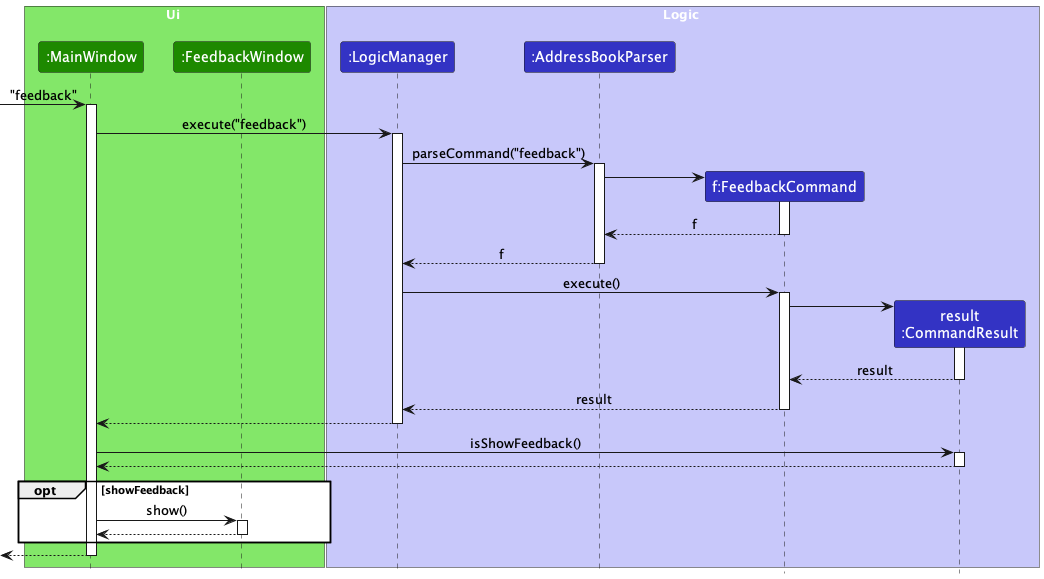
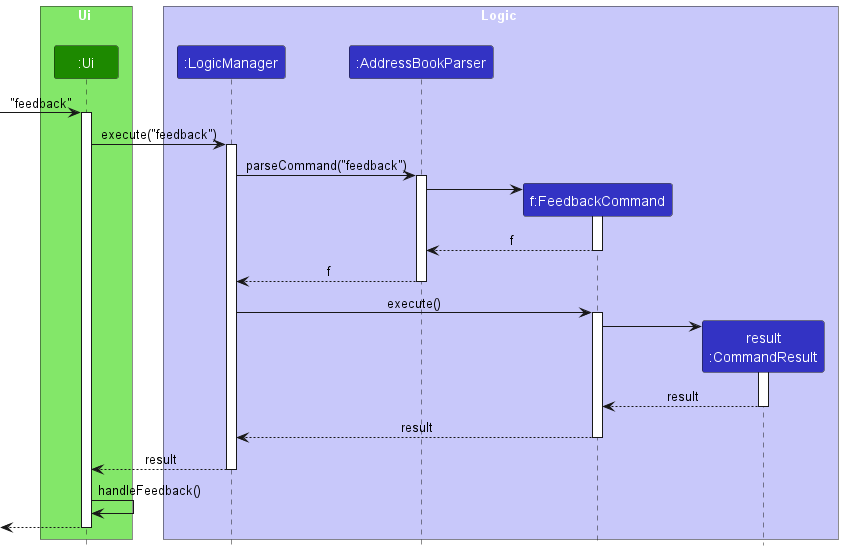
Update DG on the implementation of telehandle and various diagrams

diff --git a/docs/DeveloperGuide.md b/docs/DeveloperGuide.md
@@ -582,24 +582,18 @@ Step 2. The `LogicManager` receives this command string and passes it to the `Ad
 
 Step 3. The `AddressBookParser` identifies the type of command and invokes the relevant parser, in this case, `AddCommandParser`, to process the command details.
 
-Step 4. The parser `AddCommandParser` will then parse the command and create objects for each field. Each field will go through their own respective parse method in `ParserUtil`. The telehandle will be indicated by the `th/` prefix.
+Step 4. The parser `AddCommandParser` will then parse the command and create objects for each field. `Telehandle` will be indicated by the `th/` prefix.
 For this scenario, we will be focusing on the `Telehandle`.
 
 Step 5. The `AddCommandParser` processes the input and if a `Telehandle` is provided, the `ParserUtil#parseTelehandle()` method will then be invoked within `AddCommandParser`, else an empty `Telehandle` would be created instead.
 
-Step 6. If the `ParserUtil#parseTelehandle()` is called, then `Telehandle#isValidTelehandle()` method is called to check on the validity of the `Telehandle` according to the input contraints.
+Step 6. Using all the parsed fields (`Name, Phone, Email, Address, Telehandle, Tag, Courses`), a `Person` object is constructed.
 
-Step 7. If the `Telehandle` is valid, a new `Telehandle` is constructed and then returned to `ParserUtil`.
+Step 7. This results in a `AddCommand` object which is executed by the `LogicManager`.
 
-Step 8. The `Telehandle` is returned from `ParserUtil` to `AddCommandParser`.
+Step 8. The command will communicate with the `Model` to add a person with the inputted `Telehandle`.
 
-Step 9. Using all the parsed fields (`Name, Phone, Email, Address, Telehandle, Tag, Courses`), a `Person` object is constructed.
-
-Step 10. This results in a `AddCommand` object which is executed by the `LogicManager`.
-
-Step 11. The command will communicate with the `Model` to add a person with the inputted course.
-
-Step 12. Upon success, the result of the command execution is encapsulated as a CommandResult object which is returned back from `Logic`.
+Step 9. Upon success, the result of the command execution is encapsulated as a CommandResult object which is returned back from `Logic`.
 
 
 The following sequence diagram shows how the `Telehandle` works through the `AddCommand`:
@@ -611,9 +605,10 @@ The following sequence diagram shows how the `Telehandle` works through the `Add
 :information_source:**Note:**
 * The lifeline for `AddCommandParser` should end at the destroy marker (X) but due to a limitation of PlantUML, the lifeline reaches the end of diagram.
 * During the `AddCommandParser`, `Name, Phone, Email, Address, Tag, Course` objects are created as well but due to space constraint and simplification, the details have been omitted
+* There are other classes in `Logic` (omitted from the class diagram above) that are used for parsing a user command and can be found [here](#33-logic-component)
 </div>
 
-The following object diagram below shows the new `Person` object created when the user executes the `Add` command with a valid `Telehandle` as shown in step 1.
+The following object diagram below shows the new `Person` object created when the user executes the `Add` command with a valid `Telehandle`.
 
 ![TelehandleObjectDiagram](images/TelehandleObjectDiagram.png) 
 
@@ -638,18 +633,22 @@ The Feedback mechanism is facilitated by `FeedbackCommand`.
 
 Given below is an example usage scenario and how the Feedback mechanism works at each step.
 
-Step 1. The user wishes to send a feedback in regard to the app. They execute the `feedback` command: feedback
+Step 1. The user wishes to send a feedback in regard to the app. They execute the `feedback` command.
 
 Step 2. The `LogicManager` receives this command string and passes it to the `AddressBookParser`.
 
 Step 3. The `AddressBookParser` identifies the type of command and invokes the relevant command, in this case, 
 `FeedbackCommand`.
 
-Step 4. The result of the command execution is encapsulated as a `CommandResult` object which is returned back from `Logic`.
+Step 4. This results in a `FeedbackCommand` object which is executed by the `LogicManager`.
 
-Step 5. The success message is displayed to the user.
+Step 5. The result of the command execution is encapsulated as a `CommandResult` object which is returned back from `LogicManager`.
 
-Step 6. The `Ui` updates and the `Feedback` popup window appears.
+Step 6. Then the `CommandResult` object will cause the MainWindow#handleFeedback() to be executed. 
+
+Step 7. The `Ui` will be updated, and the success message will be displayed to the user.
+
+Step 8. Lastly, the `Feedback` popup window will appear.
 
 The following sequence diagram shows how the `Feedback` operation works:
 
